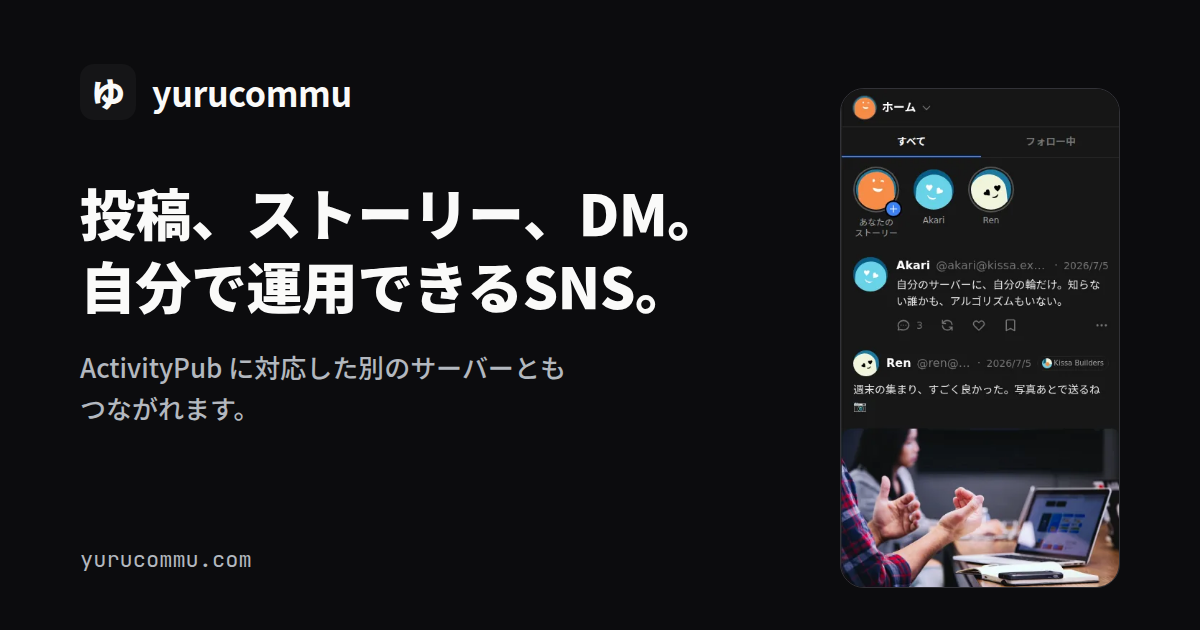
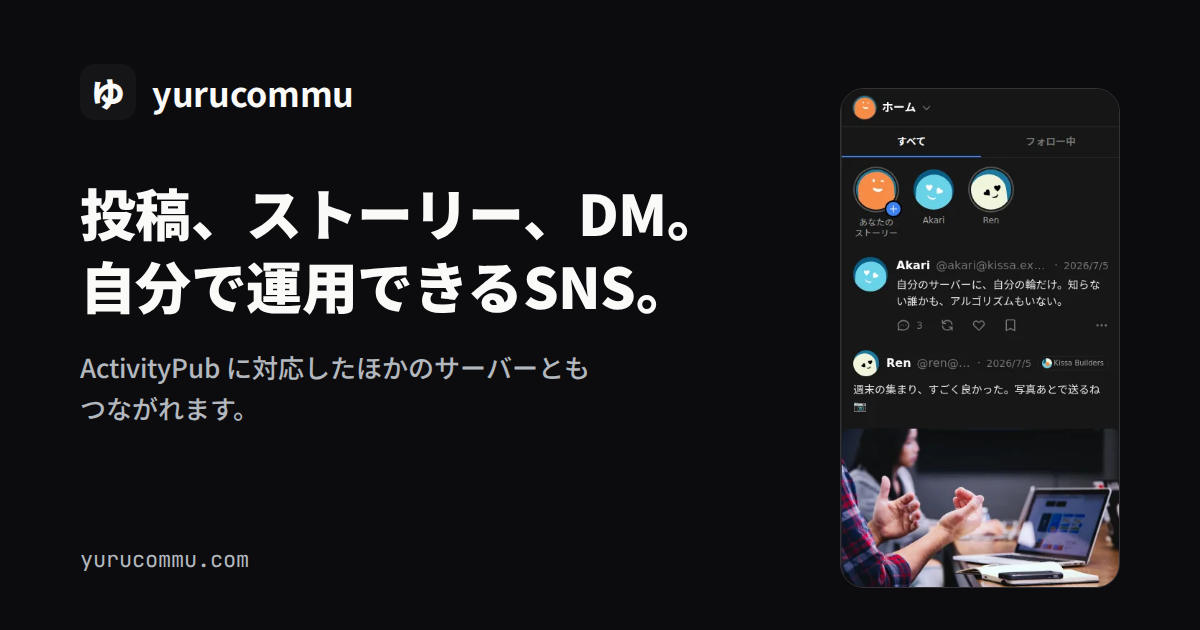
docs(site): the share image says ほかのサーバー too
Re-render og.png from og-template.html (1200x630, Noto Sans JP loaded) with
the same wording as the landing hero.

diff --git a/site/img/og-template.html b/site/img/og-template.html
@@ -100,7 +100,7 @@
       <div class="brand"><span class="mark">ゆ</span>yurucommu</div>
       <h1>投稿、ストーリー、DM。<br />自分で運用できるSNS。</h1>
       <p class="lead">
-        ActivityPub に対応した別のサーバーとも<br />つながれます。
+        ActivityPub に対応したほかのサーバーとも<br />つながれます。
       </p>
       <p class="site">yurucommu.com</p>
     </div>
